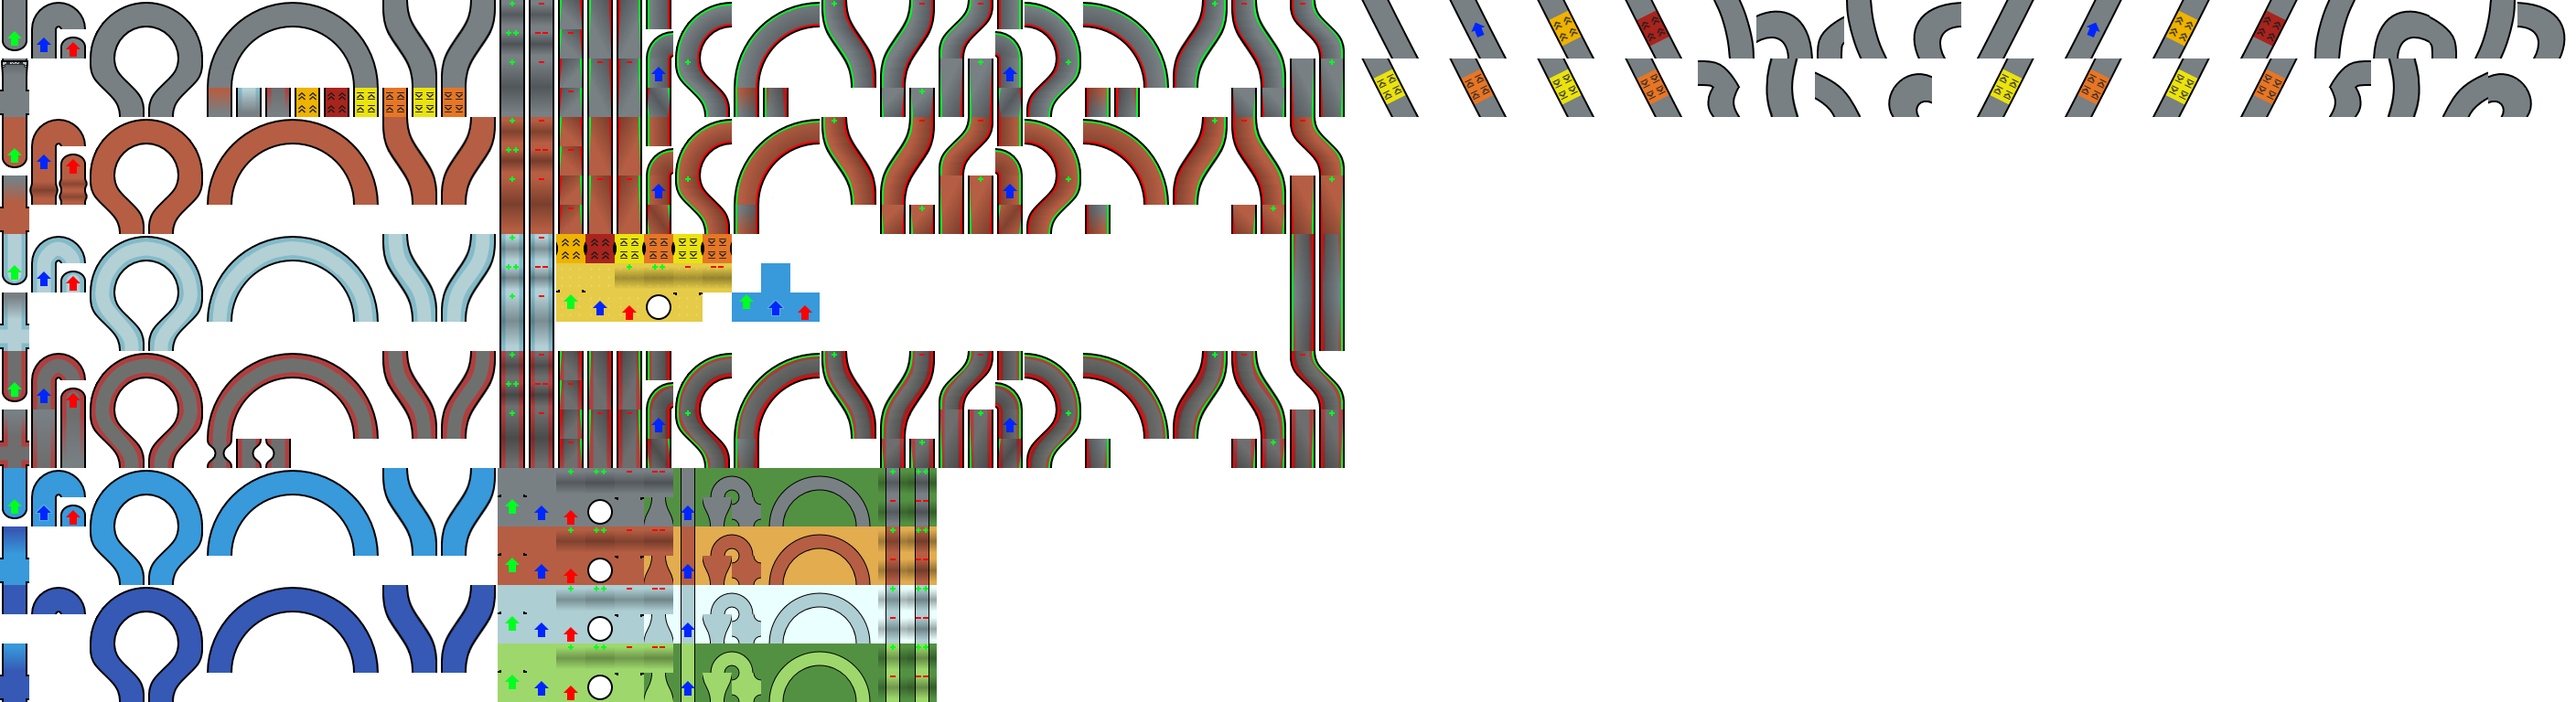
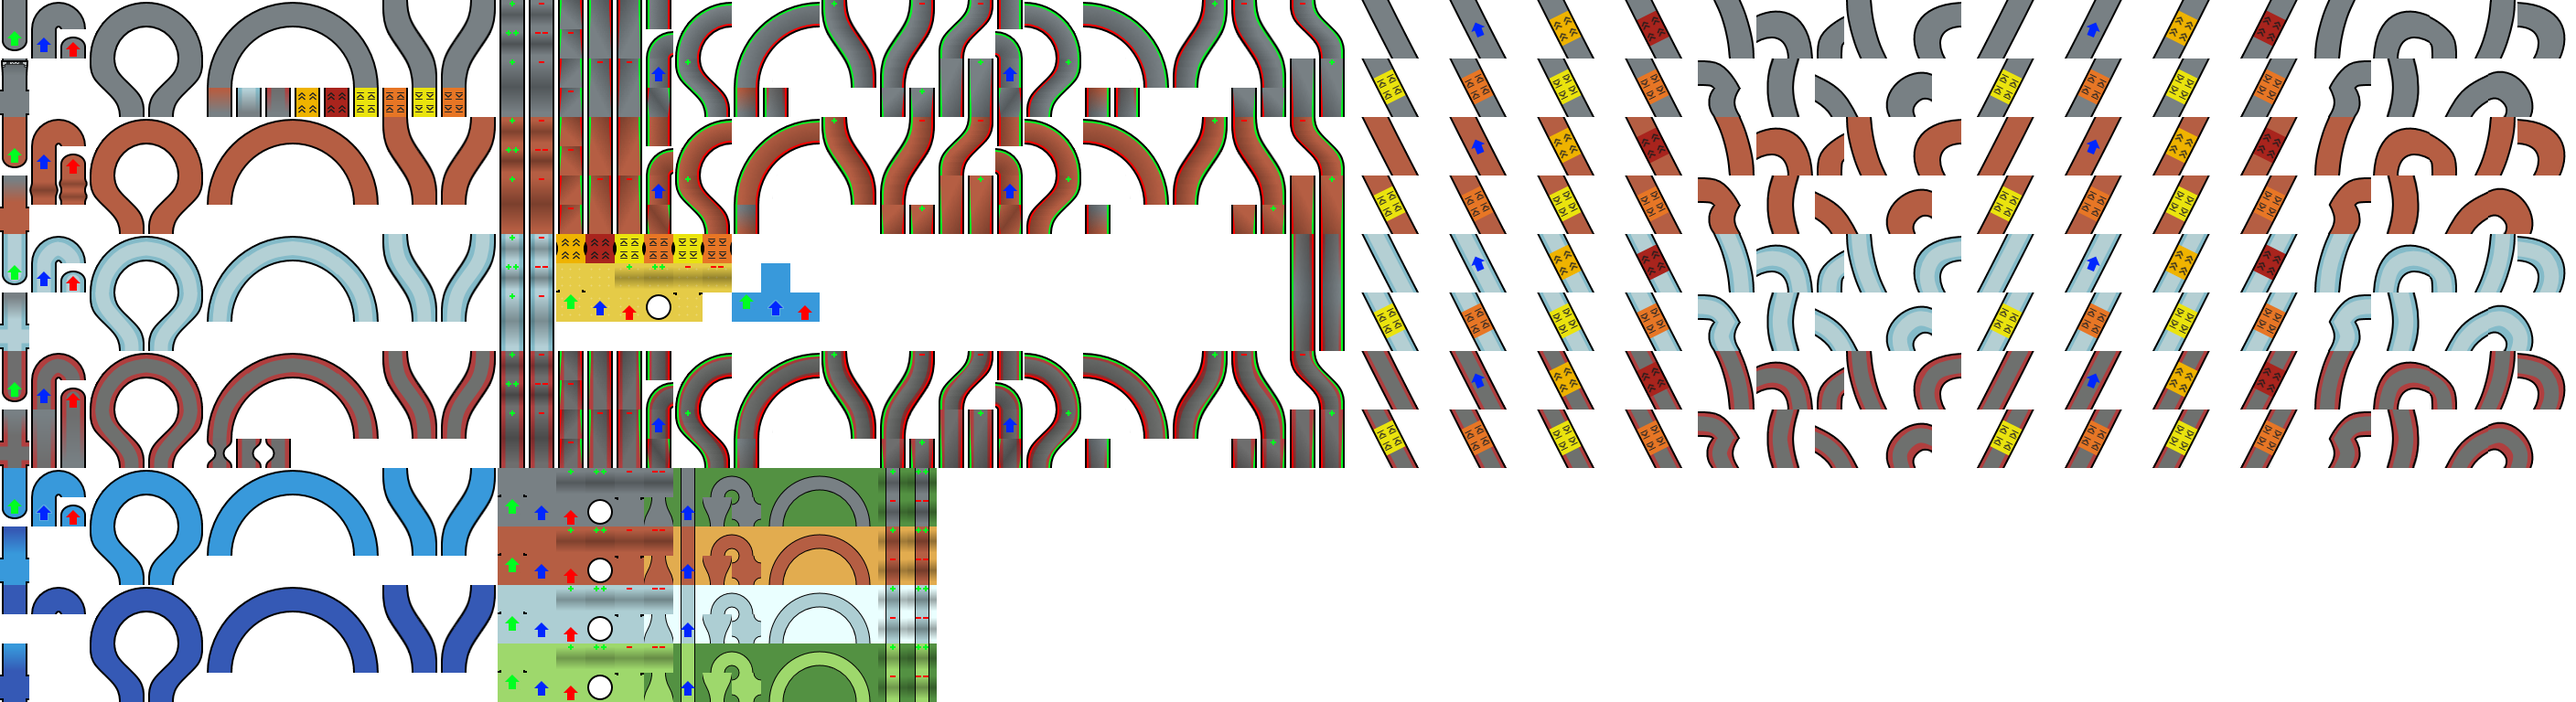
Implemented diagonals for all materials

Changed region(s): [[0.5312, 0.0938, 1.0, 0.6875]]

diff --git a/piecetypes.js b/piecetypes.js
@@ -941,6 +941,39 @@ let gDiagonalTransitionPieceTemplates =
 		collisionExtents: new Vector3D(0.5, 1, 0.5),
 		transitionTo: { material: "DiagLeft" },
 	},
+	toDiagRight:
+	{
+		tags: [ "transition" ],
+		imageOffset: new Vector2D(2528, 0),
+		imageDimensions: new Vector2D(64, 64),
+		exitOffset: new Vector3D(0, -2, 0),
+		exitAngle: 0,
+		collisionOffset: new Vector3D(0.5, -0.5, 0.5),
+		collisionExtents: new Vector3D(1, 1, 0.5),
+		transitionTo: { material: "DiagRight" },
+	},
+	toDiagRightBendIn:
+	{
+		tags: [ "transition" ],
+		imageOffset: new Vector2D(2592, 0),
+		imageDimensions: new Vector2D(64, 64),
+		exitOffset: new Vector3D(2, -1, 0),
+		exitAngle: Math.PI * 0.5,
+		collisionOffset: new Vector3D(0.5, -0.5, 0.5),
+		collisionExtents: new Vector3D(1, 1, 0.5),
+		transitionTo: { material: "DiagRight" },
+	},
+	toDiagRightBendOut:
+	{
+		tags: [ "transition" ],
+		imageOffset: new Vector2D(2656, 0),
+		imageDimensions: new Vector2D(32, 64),
+		exitOffset: new Vector3D(-1, 0, 0),
+		exitAngle: Math.PI * -0.5,
+		collisionOffset: new Vector3D(0, -0.5, 0.5),
+		collisionExtents: new Vector3D(0.5, 1, 0.5),
+		transitionTo: { material: "DiagRight" },
+	},
 };
 
 //Templates for left diagonal pieces (can be flipped for right diagonal pieces)
@@ -1083,7 +1116,7 @@ let gDiagonalLeftToRightPieceTemplates =
 		imageDimensions: new Vector2D(64, 32),
 		exitOffset: new Vector3D(-1, -1, 0),
 		exitAngle: 0,
-		collisionOffset: new Vector3D(-0.5, 0, 0.5),
+		collisionOffset: new Vector3D(-0.5, 0.5, 0.5),
 		collisionExtents: new Vector3D(1, 0.5, 0.5),
 		transitionTo: { material: "DiagRight" },
 	},
@@ -1119,6 +1152,55 @@ let gDiagonalLeftToRightPieceTemplates =
 		collisionOffset: new Vector3D(-0.5, -0.5, 0.5),
 		collisionExtents: new Vector3D(1, 1, 0.5),
 		transitionTo: { material: "DiagRight" },
+	},
+};
+
+//Templates for right-to-left diagonal transitions.
+let gDiagonalRightToLeftPieceTemplates =
+{
+	toDiagLeft:
+	{
+		tags: [ "transition" ],
+		imageOffset: new Vector2D(2528, 96),
+		imageDimensions: new Vector2D(64, 32),
+		exitOffset: new Vector3D(1, -1, 0),
+		exitAngle: 0,
+		collisionOffset: new Vector3D(0.5, 0, 0.5),
+		collisionExtents: new Vector3D(1, 0.5, 0.5),
+		transitionTo: { material: "DiagLeft" },
+	},
+	toDiagLeftLong:
+	{
+		tags: [ "transition" ],
+		imageOffset: new Vector2D(2592, 64),
+		imageDimensions: new Vector2D(64, 64),
+		exitOffset: new Vector3D(1, -2, 0),
+		exitAngle: 0,
+		collisionOffset: new Vector3D(0.5, -0.5, 0.5),
+		collisionExtents: new Vector3D(1, 1, 0.5),
+		transitionTo: { material: "DiagLeft" },
+	},
+	toDiagLeftBendIn:
+	{
+		tags: [ "transition" ],
+		imageOffset: new Vector2D(2656, 64),
+		imageDimensions: new Vector2D(64, 64),
+		exitOffset: new Vector3D(2, 0, 0),
+		exitAngle: Math.PI * 0.5,
+		collisionOffset: new Vector3D(0.5, -0.5, 0.5),
+		collisionExtents: new Vector3D(1, 1, 0.5),
+		transitionTo: { material: "DiagLeft" },
+	},
+	toDiagLeftBendOut:
+	{
+		tags: [ "transition" ],
+		imageOffset: new Vector2D(2720, 64),
+		imageDimensions: new Vector2D(64, 64),
+		exitOffset: new Vector3D(-1, -1, 0),
+		exitAngle: Math.PI * -0.5,
+		collisionOffset: new Vector3D(0.5, -0.5, 0.5),
+		collisionExtents: new Vector3D(1, 1, 0.5),
+		transitionTo: { material: "DiagLeft" },
 	},
 };
 
@@ -1875,7 +1957,25 @@ let InitialisePieceTypes = function()
 	CreatePieceTypesFromTemplate(gDiagonalPieceTemplates, "roadDiagLeft", new Vector2D(0, 0), undefined, 0, "road");
 	CreatePieceTypesFromTemplate(gDiagonalPieceTemplates, "roadDiagRight", new Vector2D(672, 0), undefined, 0, "road", true);
 	CreatePieceTypesFromTemplate(gDiagonalLeftToRightPieceTemplates, "roadDiagLeft", new Vector2D(0, 0), undefined, 0, "road");
-	//CreatePieceTypesFromTemplate(gDiagonalRightToLeftPieceTemplates, "roadDiagRight", new Vector2D(0, 0), undefined, 0, "road");
+	CreatePieceTypesFromTemplate(gDiagonalRightToLeftPieceTemplates, "roadDiagRight", new Vector2D(0, 0), undefined, 0, "road");
+
+	CreatePieceTypesFromTemplate(gDiagonalTransitionPieceTemplates, "dirtFlat", new Vector2D(0, 128), undefined, 0, "dirt");
+	CreatePieceTypesFromTemplate(gDiagonalPieceTemplates, "dirtDiagLeft", new Vector2D(0, 128), undefined, 0, "dirt");
+	CreatePieceTypesFromTemplate(gDiagonalPieceTemplates, "dirtDiagRight", new Vector2D(672, 128), undefined, 0, "dirt", true);
+	CreatePieceTypesFromTemplate(gDiagonalLeftToRightPieceTemplates, "dirtDiagLeft", new Vector2D(0, 128), undefined, 0, "dirt");
+	CreatePieceTypesFromTemplate(gDiagonalRightToLeftPieceTemplates, "dirtDiagRight", new Vector2D(0, 128), undefined, 0, "dirt");
+
+	CreatePieceTypesFromTemplate(gDiagonalTransitionPieceTemplates, "iceFlat", new Vector2D(0, 256), undefined, 0, "ice");
+	CreatePieceTypesFromTemplate(gDiagonalPieceTemplates, "iceDiagLeft", new Vector2D(0, 256), undefined, 0, "ice");
+	CreatePieceTypesFromTemplate(gDiagonalPieceTemplates, "iceDiagRight", new Vector2D(672, 256), undefined, 0, "ice", true);
+	CreatePieceTypesFromTemplate(gDiagonalLeftToRightPieceTemplates, "iceDiagLeft", new Vector2D(0, 256), undefined, 0, "ice");
+	CreatePieceTypesFromTemplate(gDiagonalRightToLeftPieceTemplates, "iceDiagRight", new Vector2D(0, 256), undefined, 0, "ice");
+
+	CreatePieceTypesFromTemplate(gDiagonalTransitionPieceTemplates, "sausageFlat", new Vector2D(0, 384), undefined, 0, "sausage");
+	CreatePieceTypesFromTemplate(gDiagonalPieceTemplates, "sausageDiagLeft", new Vector2D(0, 384), undefined, 0, "sausage");
+	CreatePieceTypesFromTemplate(gDiagonalPieceTemplates, "sausageDiagRight", new Vector2D(672, 384), undefined, 0, "sausage", true);
+	CreatePieceTypesFromTemplate(gDiagonalLeftToRightPieceTemplates, "sausageDiagLeft", new Vector2D(0, 384), undefined, 0, "sausage");
+	CreatePieceTypesFromTemplate(gDiagonalRightToLeftPieceTemplates, "sausageDiagRight", new Vector2D(0, 384), undefined, 0, "sausage");
 
 	//Special-case transitions.
 	ModifyPieceTypeProperty("roadFlat", "transitionTo", { material: "waterShallowFlat", probability: 0.025 }, [ "ramp" ]);
